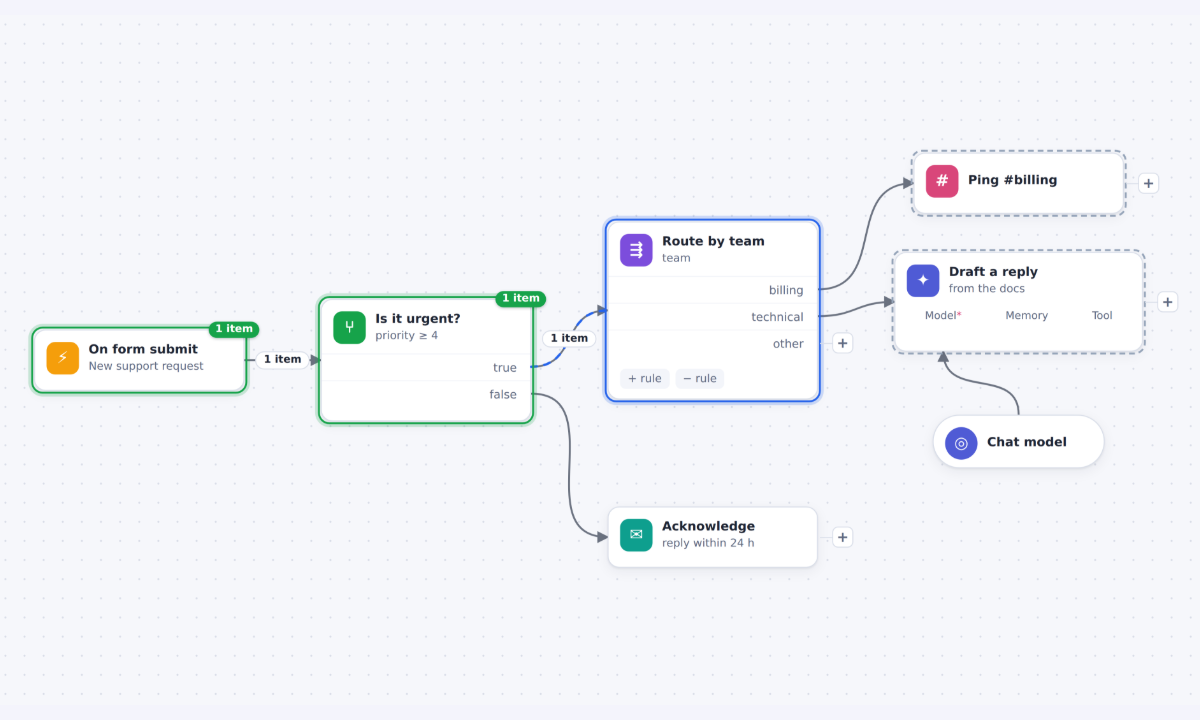
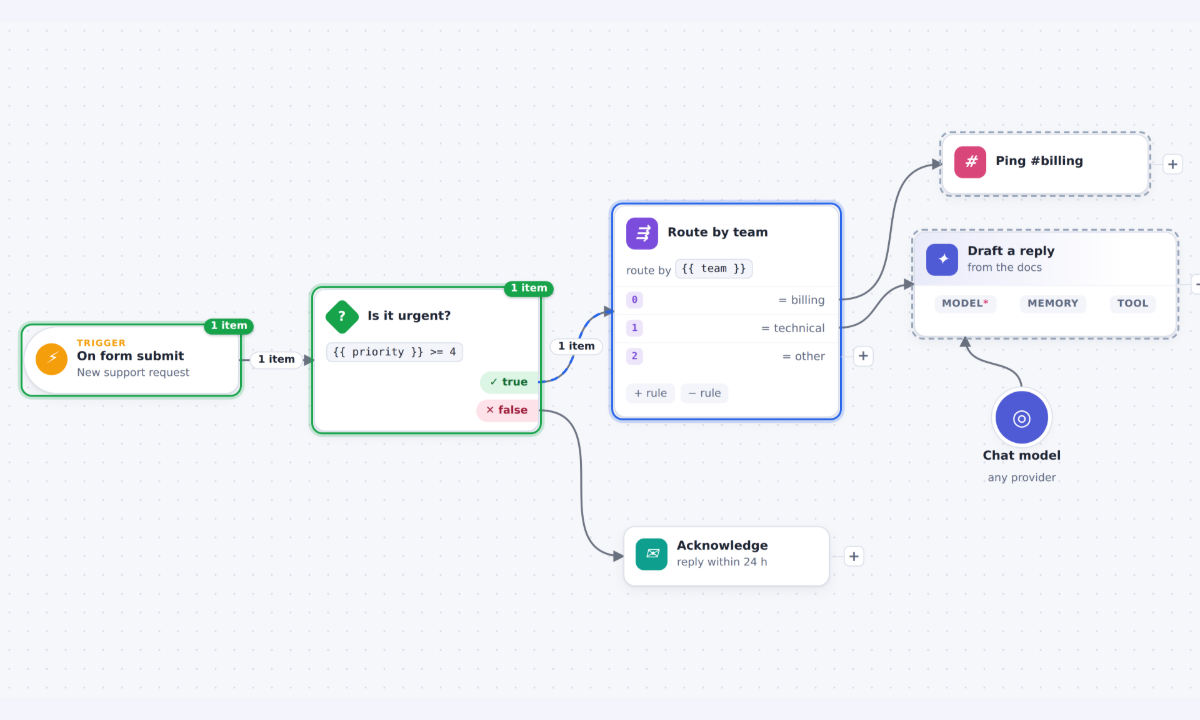
demos: workflow editor steps get shapes that say what they do

Changed region(s): [[0.0, 0.1833, 0.9867, 0.7333], [0.4933, 0.7028, 0.6475, 0.7944], [0.925, 0.3972, 0.9867, 0.4278]]

diff --git a/demos/interaction/workflow-editor-steps.js b/demos/interaction/workflow-editor-steps.js
@@ -1,8 +1,18 @@
 // The step catalogue of the workflow-editor demo: ONE node template per step
 // type — `(data, ctx) → { html, ports, size }` — plus a compact form for far
-// zoom. Every port a row stands for is marked `data-port`, so the library puts
-// the port level with its row (no hidden copy of the card, no measuring here).
-// Port ids are `<node id>:<name>`: unique across the diagram.
+// zoom. Each KIND has a shape that says what it does:
+//
+//   trigger  — a "D": rounded where nothing comes in, a bolt, TRIGGER above its name
+//   action   — an icon card (HTTP, edit fields, message, email)
+//   if       — a decision: the condition as a code pill, two coloured branches
+//              (true / false) on its right edge, each branch carrying its output
+//   switch   — a router: the key it routes on, then one numbered rule per output
+//   agent    — a wide card whose typed SLOTS (Model, Memory, Tool) hang underneath
+//   model, memory, tool — round sub-nodes that plug UP into a slot
+//
+// Every element that stands for a port is marked `data-port`, so the library puts
+// the port level with it (no hidden copy of the card, no measuring here). Port
+// ids are `<node id>:<name>`: unique across the diagram.
 
 const esc = (s) => String(s ?? '').replace(/[&<>"]/g, (c) => ({ '&': '&amp;', '<': '&lt;', '>': '&gt;', '"': '&quot;' })[c]);
 
@@ -11,7 +21,7 @@ export const KINDS = {
   trigger: { icon: '⚡', title: 'On form submit', hue: 'amber' },
   http: { icon: '⇅', title: 'HTTP request', hue: 'blue' },
   set: { icon: '✎', title: 'Edit fields', hue: 'slate' },
-  if: { icon: '⑂', title: 'If', hue: 'green' },
+  if: { icon: '?', title: 'If', hue: 'green' },
   switch: { icon: '⇶', title: 'Switch', hue: 'violet' },
   slack: { icon: '#', title: 'Send a message', hue: 'pink' },
   email: { icon: '✉', title: 'Send email', hue: 'teal' },
@@ -21,62 +31,77 @@ export const KINDS = {
   tool: { icon: '⚙', title: 'Calculator', hue: 'indigo' },
 };
 
-/** The steps a "+" can add (sub-nodes go under an AI agent's slots, not into the flow). */
+/** What a "+" can add (sub-nodes plug into an AI step's slots, not into the flow). */
 export const MENU = ['http', 'set', 'if', 'switch', 'slack', 'email', 'agent'];
 
-const head = (kind, data) => {
-  const k = KINDS[kind];
-  return `<div class="we-head"><span class="we-ico we-${k.hue}">${k.icon}</span><span class="we-txt"><b>${esc(data.title ?? k.title)}</b>${data.note ? `<small>${esc(data.note)}</small>` : ''}</span></div>`;
-};
-const compact = (kind) => (data) => {
-  const k = KINDS[kind];
-  return `<div class="we-mini"><span class="we-ico we-${k.hue}">${k.icon}</span><b>${esc(data.title ?? k.title)}</b></div>`;
-};
+const titleOf = (kind, data) => esc(data.title ?? KINDS[kind].title);
+const ico = (kind) => `<span class="we-ico we-${KINDS[kind].hue}"><i>${KINDS[kind].icon}</i></span>`;
+const head = (kind, data) =>
+  `<div class="we-head">${ico(kind)}<span class="we-txt"><b>${titleOf(kind, data)}</b>${data.note ? `<small>${esc(data.note)}</small>` : ''}</span></div>`;
+const compact = (kind) => (data) => `<div class="we-mini we-mini-${kind}">${ico(kind)}<b>${titleOf(kind, data)}</b></div>`;
 const io = (id, { input = true, output = true } = {}) => [
   ...(input ? [{ id: `${id}:in`, side: 'left', type: 'input' }] : []),
   ...(output ? [{ id: `${id}:out`, side: 'right', type: 'output' }] : []),
 ];
+/** AI slots and the sub-nodes that fill them use diamond ports, as AI wiring does in most flow tools. */
+const DIAMOND = { shape: 'diamond', size: 12 };
 
-const plain = (kind, opts) => ({
+const action = (kind) => ({
   render: (data, { node }) => ({
-    html: `<div class="we-card">${head(kind, data)}</div>`,
-    ports: io(node.id, opts),
+    html: `<div class="we-card we-action">${head(kind, data)}</div>`,
+    ports: io(node.id),
     size: { width: 220, height: 64 },
   }),
   compact: compact(kind),
 });
 
 export const TEMPLATES = {
-  trigger: plain('trigger', { input: false }),
-  http: plain('http'),
-  set: plain('set'),
-  slack: plain('slack'),
-  email: plain('email'),
+  http: action('http'),
+  set: action('set'),
+  slack: action('slack'),
+  email: action('email'),
 
-  // An If: one row per outcome, each row marking its output.
+  // A trigger starts the flow: round on the side nothing can come in from.
+  trigger: {
+    render: (data, { node }) => ({
+      html: `<div class="we-card we-trigger"><div class="we-head">${ico('trigger')}<span class="we-txt">` +
+        `<em class="we-eyebrow">Trigger</em><b>${titleOf('trigger', data)}</b>${data.note ? `<small>${esc(data.note)}</small>` : ''}</span></div></div>`,
+      ports: io(node.id, { input: false }),
+      size: { width: 230, height: 72 },
+    }),
+    compact: compact('trigger'),
+  },
+
+  // An If is a DECISION: the condition it tests, then its two outcomes as
+  // coloured branches on the right edge — each branch is where its output leaves.
   if: {
     render: (data, { node }) => ({
-      html: `<div class="we-card">${head('if', data)}<div class="we-rows">` +
-        `<div class="we-row" data-port="${node.id}:true"><span>true</span></div>` +
-        `<div class="we-row" data-port="${node.id}:false"><span>false</span></div></div></div>`,
+      html: `<div class="we-card we-if">${head('if', data)}` +
+        `<div class="we-cond"><code>${esc(data.condition ?? 'condition')}</code></div>` +
+        `<div class="we-branches">` +
+        `<span class="we-branch we-true" data-port="${node.id}:true">✓ true</span>` +
+        `<span class="we-branch we-false" data-port="${node.id}:false">✕ false</span>` +
+        `</div></div>`,
       ports: [
         { id: `${node.id}:in`, side: 'left', type: 'input' },
         { id: `${node.id}:true`, side: 'right', type: 'output', index: 0, label: { text: 'true' } },
         { id: `${node.id}:false`, side: 'right', type: 'output', index: 1, label: { text: 'false' } },
       ],
-      size: { width: 220, height: 64 + 2 * 28 + 8 },
+      size: { width: 240, height: 152 },
     }),
     compact: compact('if'),
   },
 
-  // A Switch: its outputs ARE its rules. Add or drop a rule and the card, its
-  // ports and their order follow — through SetNodeDataCommand, one undo step.
+  // A Switch ROUTES: the key it reads, then one numbered rule per output. Add or
+  // drop a rule and the card, its ports and their order follow — through
+  // SetNodeDataCommand, in one undo step.
   switch: {
     render: (data, { node }) => {
       const rules = data.rules ?? [];
       return {
-        html: `<div class="we-card">${head('switch', data)}<div class="we-rows">` +
-          rules.map((r, i) => `<div class="we-row" data-port="${node.id}:r${i}"><span>${esc(r)}</span></div>`).join('') +
+        html: `<div class="we-card we-switch">${head('switch', data)}` +
+          `<div class="we-cond">route by <code>${esc(data.key ?? 'value')}</code></div><div class="we-rows">` +
+          rules.map((r, i) => `<div class="we-row" data-port="${node.id}:r${i}"><span class="we-n">${i}</span><span class="we-eq">= ${esc(r)}</span></div>`).join('') +
           `</div><div class="we-rule-tools"><button class="we-rule" data-act="add-rule" title="Add a rule">+ rule</button>` +
           (rules.length > 1 ? `<button class="we-rule" data-act="drop-rule" title="Remove the last rule">− rule</button>` : '') +
           `</div></div>`,
@@ -84,41 +109,43 @@ export const TEMPLATES = {
           { id: `${node.id}:in`, side: 'left', type: 'input' },
           ...rules.map((r, i) => ({ id: `${node.id}:r${i}`, side: 'right', type: 'output', index: i, label: { text: r } })),
         ],
-        size: { width: 220, height: 64 + rules.length * 28 + 8 + 30 },
+        size: { width: 240, height: 64 + 30 + rules.length * 30 + 8 + 34 },
       };
     },
     compact: compact('switch'),
   },
 
-  // An AI step: the flow runs left to right through it; its typed SLOTS hang
-  // underneath. The Model slot takes exactly one link (gating), the others any.
+  // An AI step: the flow runs through it left to right; its typed SLOTS hang
+  // underneath, each a diamond port. The Model slot takes exactly one link.
   agent: {
     render: (data, { node }) => ({
-      html: `<div class="we-card">${head('agent', data)}<div class="we-slots">` +
-        `<span data-port="${node.id}:model">Model<em>*</em></span>` +
-        `<span data-port="${node.id}:memory">Memory</span>` +
-        `<span data-port="${node.id}:tool">Tool</span></div></div>`,
+      html: `<div class="we-card we-agent">${head('agent', data)}<div class="we-slots">` +
+        `<span class="we-slot" data-port="${node.id}:model">Model<em>*</em></span>` +
+        `<span class="we-slot" data-port="${node.id}:memory">Memory</span>` +
+        `<span class="we-slot" data-port="${node.id}:tool">Tool</span></div></div>`,
       ports: [
         ...io(node.id),
-        { id: `${node.id}:model`, side: 'bottom', type: 'input', dataType: 'ai', gating: { maxConnections: 1 } },
-        { id: `${node.id}:memory`, side: 'bottom', type: 'input', dataType: 'ai' },
-        { id: `${node.id}:tool`, side: 'bottom', type: 'input', dataType: 'ai' },
+        { id: `${node.id}:model`, side: 'bottom', type: 'input', dataType: 'ai', shape: DIAMOND, gating: { maxConnections: 1 } },
+        { id: `${node.id}:memory`, side: 'bottom', type: 'input', dataType: 'ai', shape: DIAMOND },
+        { id: `${node.id}:tool`, side: 'bottom', type: 'input', dataType: 'ai', shape: DIAMOND },
       ],
-      size: { width: 260, height: 104 },
+      size: { width: 280, height: 112 },
     }),
     compact: compact('agent'),
   },
 };
 
-// The sub-nodes an AI step's slots take: one output, on TOP, into a slot.
+// The sub-nodes an AI step's slots take: a round badge, its name beneath, and a
+// diamond output on top that plugs UP into a slot.
 for (const kind of ['model', 'memory', 'tool']) {
   TEMPLATES[kind] = {
     render: (data, { node }) => ({
-      html: `<div class="we-card we-sub">${head(kind, data)}</div>`,
-      ports: [{ id: `${node.id}:out`, side: 'top', type: 'output', dataType: 'ai' }],
-      size: { width: 180, height: 56 },
+      html: `<div class="we-sub"><span class="we-orb we-${KINDS[kind].hue}" data-port="${node.id}:out">${KINDS[kind].icon}</span>` +
+        `<b>${titleOf(kind, data)}</b>${data.note ? `<small>${esc(data.note)}</small>` : ''}</div>`,
+      ports: [{ id: `${node.id}:out`, side: 'top', type: 'output', dataType: 'ai', shape: DIAMOND }],
+      size: { width: 150, height: 104 },
     }),
-    compact: compact(kind),
+    compact: (data) => `<div class="we-sub we-sub-mini"><span class="we-orb we-${KINDS[kind].hue}">${KINDS[kind].icon}</span></div>`,
   };
 }
 

diff --git a/demos/interaction/workflow-editor.html b/demos/interaction/workflow-editor.html
@@ -16,11 +16,13 @@
     --we-row: #f3f5fa; --we-shadow: 0 1px 2px rgba(22, 30, 50, .08), 0 4px 14px rgba(22, 30, 50, .06);
     --we-amber: #f59e0b; --we-blue: #2f6fec; --we-slate: #64748b; --we-green: #16a34a; --we-violet: #7c4ddc;
     --we-pink: #d9467a; --we-teal: #0e9f8e; --we-indigo: #4f5bd5;
+    --we-true-ink: #126b34; --we-true-bg: #dcf5e4; --we-false-ink: #9f1d3c; --we-false-bg: #fde3e9;
   }
   @media (prefers-color-scheme: dark) {
     :root {
       --we-bg: #11151e; --we-dot: #222a39; --we-card: #1a2130; --we-ink: #e6eaf4; --we-mut: #9aa4bb; --we-line: #2c3547;
       --we-row: #212a3b; --we-shadow: 0 1px 2px rgba(0, 0, 0, .4), 0 4px 14px rgba(0, 0, 0, .3);
+      --we-true-ink: #7ee2a2; --we-true-bg: rgba(34, 197, 94, .16); --we-false-ink: #ff9fb4; --we-false-bg: rgba(244, 63, 94, .16);
     }
   }
   #we { --grafloria-add-bg: var(--we-card); --grafloria-add-fg: var(--we-mut); --grafloria-add-line: var(--we-line);
@@ -46,17 +48,44 @@
   .we-amber { background: var(--we-amber); } .we-blue { background: var(--we-blue); } .we-slate { background: var(--we-slate); }
   .we-green { background: var(--we-green); } .we-violet { background: var(--we-violet); } .we-pink { background: var(--we-pink); }
   .we-teal { background: var(--we-teal); } .we-indigo { background: var(--we-indigo); }
+  /* trigger: a "D" — round on the side nothing comes in from */
+  .we-trigger { border-radius: 36px 14px 14px 36px; }
+  .we-trigger .we-ico { border-radius: 50%; }
+  .we-eyebrow { font: 700 9.5px/1.2 system-ui, sans-serif; letter-spacing: .09em; text-transform: uppercase; color: var(--we-amber); font-style: normal; }
+  /* the tested condition / routing key, as code */
+  .we-cond { padding: 0 12px 8px; color: var(--we-mut); font-size: 11.5px; }
+  .we-cond code { display: inline-block; max-width: 100%; overflow: hidden; text-overflow: ellipsis; white-space: nowrap; vertical-align: bottom; font: 500 11.5px/1.6 ui-monospace, "SF Mono", Menlo, monospace; color: var(--we-ink); background: var(--we-row); border: 1px solid var(--we-line); border-radius: 6px; padding: 0 6px; }
+  /* if: a decision — a diamond mark, and two coloured branches on its right edge */
+  .we-if .we-head .we-ico { border-radius: 7px; transform: rotate(45deg) scale(.84); }
+  .we-if .we-head .we-ico i { transform: rotate(-45deg); font-style: normal; }
+  .we-branches { display: grid; justify-items: end; gap: 6px; padding: 2px 0 10px; }
+  .we-branch { margin-right: -1px; height: 24px; display: inline-flex; align-items: center; padding: 0 12px 0 10px; border-radius: 12px 0 0 12px; font: 600 11.5px/1 system-ui, sans-serif; }
+  .we-true { color: var(--we-true-ink); background: var(--we-true-bg); }
+  .we-false { color: var(--we-false-ink); background: var(--we-false-bg); }
+  /* switch: a router — numbered rules, each an output */
   .we-rows { display: grid; gap: 0; padding: 0 0 8px; }
-  .we-row { height: 28px; display: flex; align-items: center; justify-content: flex-end; padding: 0 14px; font: 500 12px/1 system-ui, sans-serif; color: var(--we-mut); border-top: 1px solid var(--we-row); }
-  .we-rule-tools { display: flex; gap: 6px; padding: 0 12px; height: 30px; align-items: center; }
+  .we-row { height: 30px; display: flex; align-items: center; gap: 8px; padding: 0 14px 0 12px; font: 500 12px/1 system-ui, sans-serif; color: var(--we-ink); border-top: 1px solid var(--we-row); }
+  .we-n { flex: none; width: 18px; height: 18px; border-radius: 5px; display: grid; place-items: center; font: 600 10.5px/1 ui-monospace, monospace; color: var(--we-violet); background: color-mix(in srgb, var(--we-violet) 14%, transparent); }
+  .we-eq { margin-left: auto; color: var(--we-mut); }
+  .we-rule-tools { display: flex; gap: 6px; padding: 0 12px; height: 34px; align-items: center; }
   .we-rule { font: 500 11.5px/1 system-ui, sans-serif; color: var(--we-mut); background: var(--we-row); border: 0; border-radius: 6px; padding: 5px 8px; cursor: pointer; }
   .we-rule:hover { color: var(--we-ink); }
   [data-readonly] .we-rule-tools { visibility: hidden; }
-  .we-slots { display: flex; justify-content: space-around; padding: 4px 8px 0; font: 500 11px/1 system-ui, sans-serif; color: var(--we-mut); }
-  .we-slots em { color: #d9467a; font-style: normal; }
-  .we-sub { border-radius: 28px; }
-  .we-sub .we-ico { border-radius: 50%; }
+  /* agent: a tinted header band, typed slots along the bottom */
+  .we-agent .we-head { background: linear-gradient(90deg, color-mix(in srgb, var(--we-indigo) 12%, transparent), transparent 80%); border-bottom: 1px solid var(--we-row); }
+  .we-slots { display: flex; justify-content: space-around; padding: 10px 8px 0; }
+  .we-slot { font: 600 10.5px/1 system-ui, sans-serif; letter-spacing: .04em; text-transform: uppercase; color: var(--we-mut); padding: 4px 8px; border-radius: 6px; background: var(--we-row); }
+  .we-slot em { color: var(--we-pink); font-style: normal; }
+  /* sub-nodes: a round badge with its name beneath, plugging UP into a slot */
+  .we-sub { height: 100%; display: grid; justify-items: center; align-content: start; gap: 6px; font: 13px/1.25 system-ui, sans-serif; text-align: center; }
+  .we-orb { width: 56px; height: 56px; border-radius: 50%; display: grid; place-items: center; color: #fff; font: 600 24px/1 system-ui, sans-serif; box-shadow: 0 0 0 4px var(--we-card), 0 0 0 5px var(--we-line), var(--we-shadow); }
+  .we-sub b { font-weight: 600; max-width: 100%; white-space: nowrap; overflow: hidden; text-overflow: ellipsis; }
+  .we-sub small { color: var(--we-mut); font-size: 11.5px; }
+  .we-sub-mini { align-content: center; }
+  .we-sub-mini .we-orb { width: 80px; height: 80px; font-size: 36px; }
+  /* far zoom: icon and name, big enough to read */
   .we-mini { box-sizing: border-box; height: 100%; display: flex; align-items: center; gap: 12px; padding: 0 14px; background: var(--we-card); border: 1px solid var(--we-line); border-radius: 12px; font: 600 22px/1 system-ui, sans-serif; }
+  .we-mini-trigger { border-radius: 40px 14px 14px 40px; }
   .we-mini .we-ico { width: 44px; height: 44px; font-size: 22px; }
   .we-mini b { white-space: nowrap; overflow: hidden; text-overflow: ellipsis; }
 
@@ -106,12 +135,12 @@ const SPEC = {
   // keyboard.beforeKey), and the gallery's generic Delete audit deletes the
   // first node it finds. Positions come from Tidy, not from this order.
   nodes: [
-    { id: 'urgent', type: 'if', position: { x: 300, y: 140 }, data: { title: 'Is it urgent?', note: 'priority ≥ 4' } },
-    { id: 'route', type: 'switch', position: { x: 600, y: 20 }, data: { title: 'Route by team', note: 'team', rules: ['billing', 'technical', 'other'] } },
+    { id: 'urgent', type: 'if', position: { x: 300, y: 140 }, data: { title: 'Is it urgent?', condition: '{{ priority }} >= 4' } },
+    { id: 'route', type: 'switch', position: { x: 600, y: 20 }, data: { title: 'Route by team', key: '{{ team }}', rules: ['billing', 'technical', 'other'] } },
     { id: 'mail', type: 'email', position: { x: 600, y: 330 }, data: { title: 'Acknowledge', note: 'reply within 24 h' } },
     { id: 'notify', type: 'slack', position: { x: 900, y: 0 }, data: { title: 'Ping #billing' } },
     { id: 'agent', type: 'agent', position: { x: 900, y: 130 }, data: { title: 'Draft a reply', note: 'from the docs' } },
-    { id: 'llm', type: 'model', position: { x: 940, y: 300 }, data: { title: 'Chat model' } },
+    { id: 'llm', type: 'model', position: { x: 940, y: 300 }, data: { title: 'Chat model', note: 'any provider' } },
     { id: 'trigger', type: 'trigger', position: { x: 0, y: 160 }, data: { note: 'New support request' } },
   ],
   edges: [
